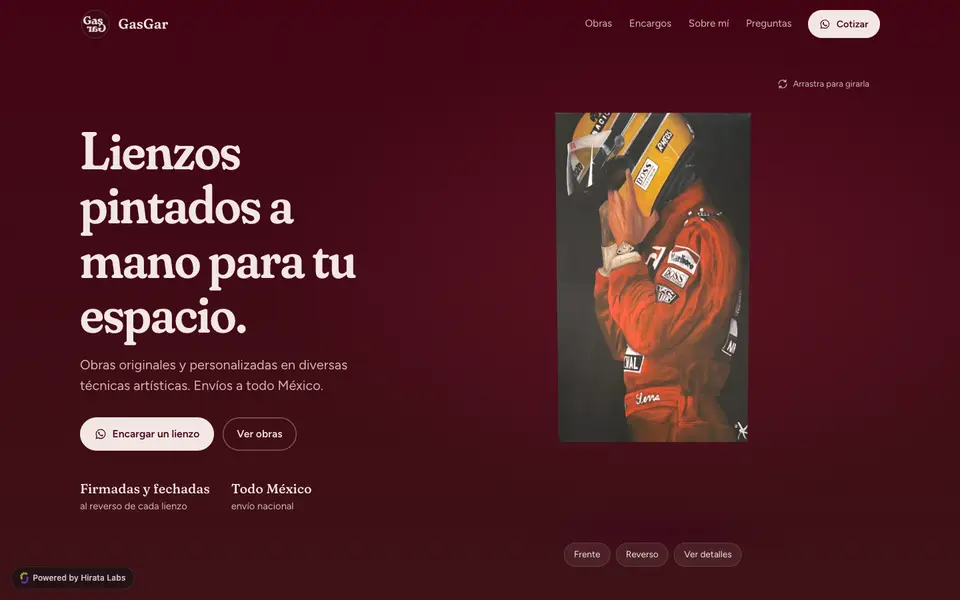
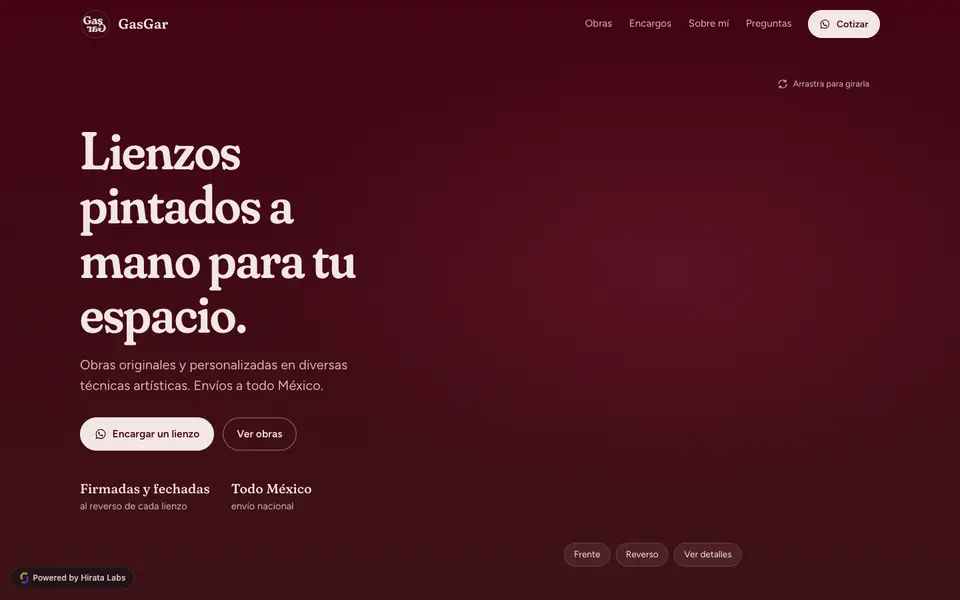
Portafolio: Élan Studio y Zaga en la landing del producto

Changed region(s): [[0.5625, 0.18, 0.7812, 0.75]]

diff --git a/src/app/inicio/portfolio.ts b/src/app/inicio/portfolio.ts
@@ -7,5 +7,7 @@ export type PortfolioItem = { name: string; giro: string; summary: string; url: 
 export const PORTFOLIO: PortfolioItem[] = [
   { name: "Hirata Impresión", giro: "Imprenta", summary: "Catálogo de impresión con cotizador y dominio propio.", url: "https://www.hirataimpresion.com", shot: "hirataimpresion" },
   { name: "La Costa Parque Industrial", giro: "Bienes raíces", summary: "Bodegas y lotes industriales con mapa y formulario de contacto.", url: "https://lacosta.hiratalabs.com", shot: "lacosta" },
+  { name: "Élan Studio", giro: "Fitness", summary: "Estudio boutique con reservas de clases, paquetes y coaches.", url: "https://elanstudio.mx", shot: "elanstudio" },
+  { name: "Zaga", giro: "Bienes raíces", summary: "Compra, venta y renta de propiedades en Culiacán.", url: "https://zaga-in.com", shot: "zaga" },
   { name: "GasGar", giro: "Arte", summary: "Lienzos originales y personalizados, galería y encargos.", url: "https://gasgar.hiratalabs.com", shot: "gasgar" },
 ];
